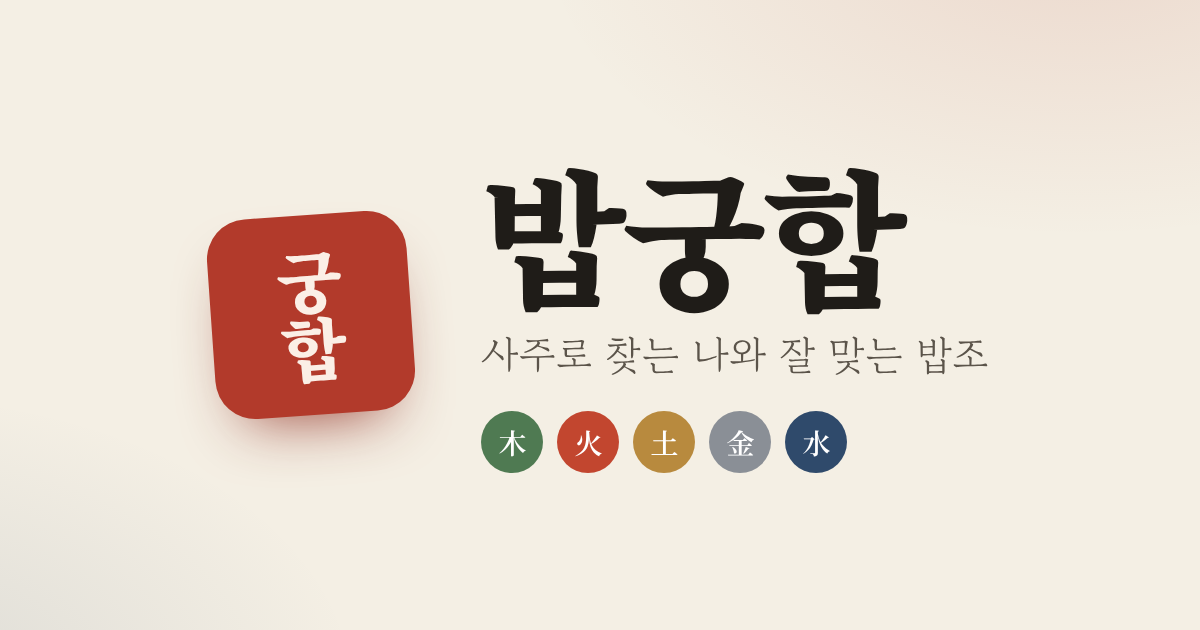
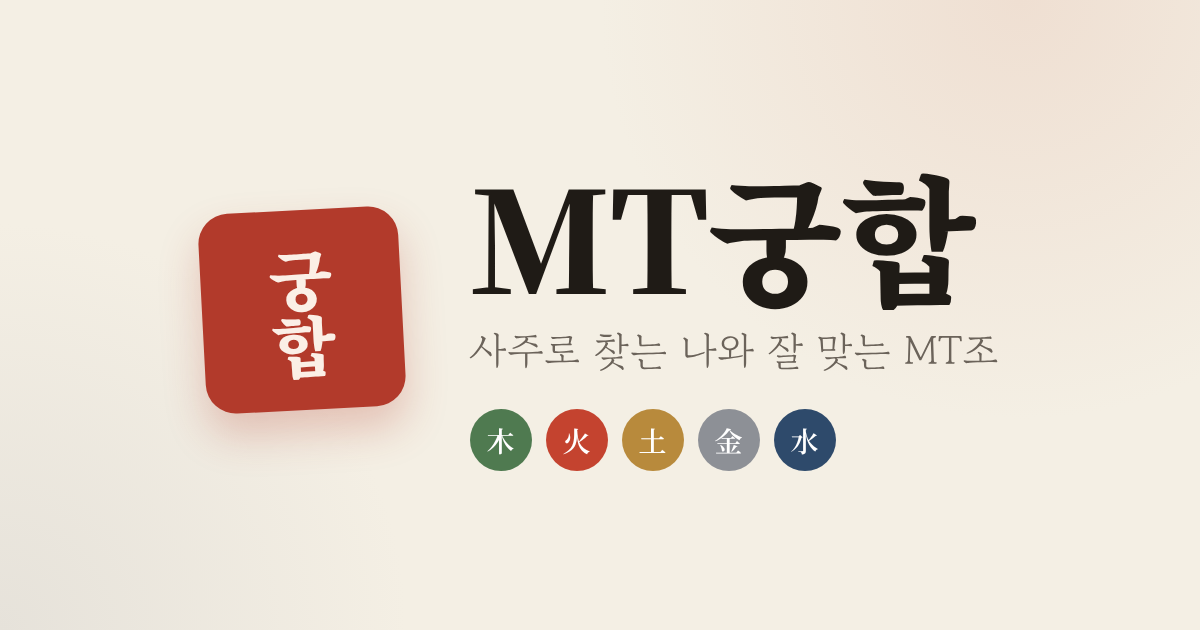
링크 미리보기 이미지를 MT궁합으로 교체(카카오 캐시 우회용 새 파일명 og-mt.png)
Claude-Session: https://claude.ai/code/session_012bKZfKR5szFujEUChz6Qdh

Changed region(s): [[0.4008, 0.2714, 0.8325, 0.6032], [0.1542, 0.3016, 0.37, 0.6937], [0.37, 0.6333, 0.7092, 0.754]]

diff --git a/public/index.html b/public/index.html
@@ -10,7 +10,7 @@
   <meta property="og:site_name" content="MT궁합">
   <meta property="og:title" content="MT궁합 · 사주로 찾는 나와 잘 맞는 MT조">
   <meta property="og:description" content="생년월일만 넣으면 내 사주와 잘 맞는 사람 타입을 바로 알려드려요. MT조는 AI가 짜드려요!">
-  <meta property="og:image" content="https://bapgunghap.vercel.app/og.png">
+  <meta property="og:image" content="https://bapgunghap.vercel.app/og-mt.png">
   <meta property="og:image:width" content="1200">
   <meta property="og:image:height" content="630">
   <meta name="twitter:card" content="summary_large_image">
